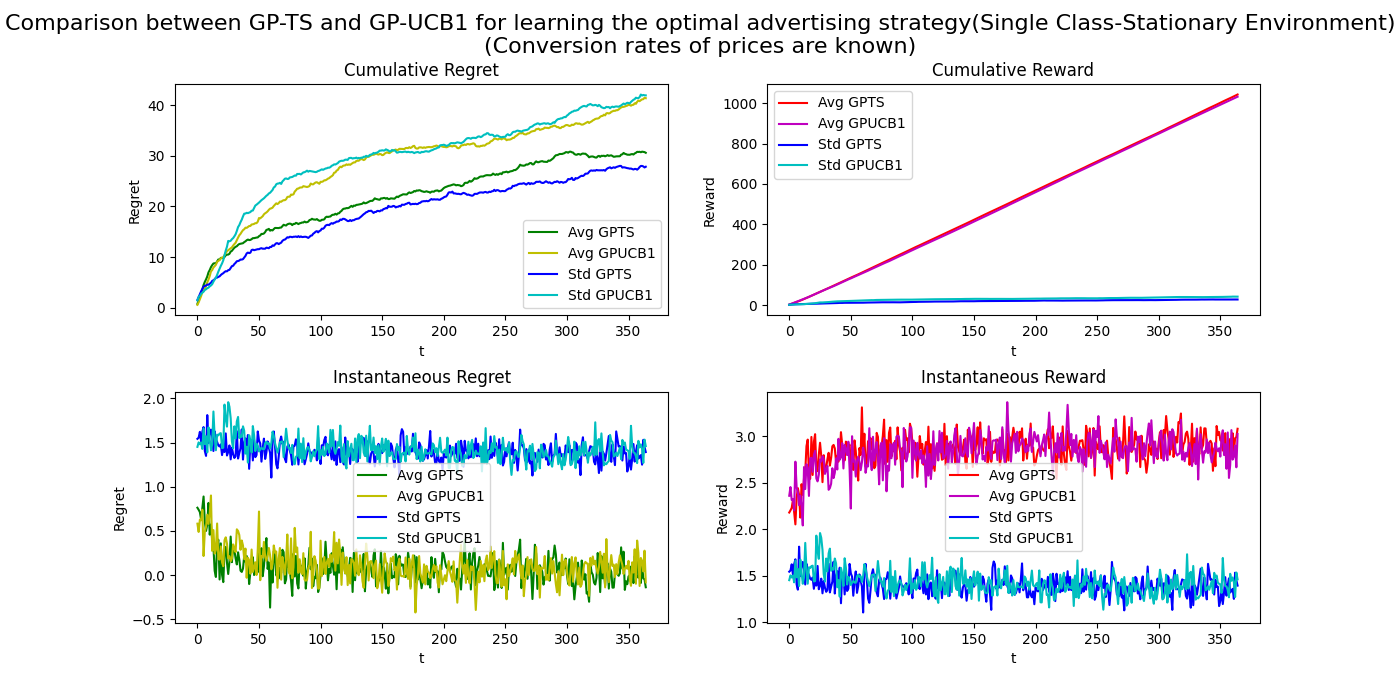
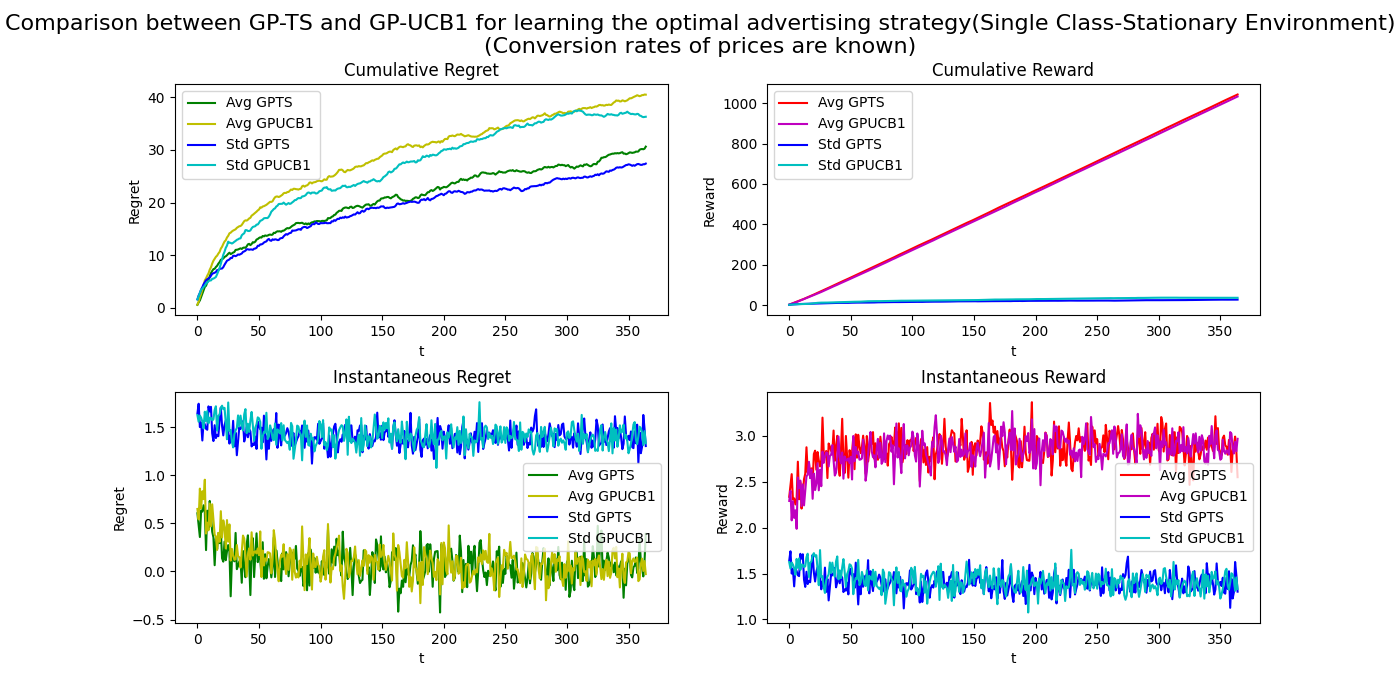
plot_update

diff --git a/Step1.py b/Step1.py
@@ -1,4 +1,4 @@
-from Classes.learners import Learner,TS_Learner,UCB1_Learner
+from Classes.learners import Learner,TS_Learner,UCB1_Learner,Greedy_Learner
 from Classes.enviroment import Environment
 from Classes.clairvoyant import clairvoyant
 
@@ -42,6 +42,7 @@ n_experiments = 1000
 
 ts_rewards_per_experiments = []
 ucb1_rewards_per_experiments = []
+greedy_rewards_per_experiments = []
 
 opt_index = int(clairvoyant(classes,bids,prices, margins,conversion_rate,env_array)[0][0])
 opt = normEarnings[opt_index][0]
@@ -53,6 +54,7 @@ for e in tqdm(range(n_experiments)):
   env = env_array[0]
   ts_learner = TS_Learner(n_arms = n_prices)
   ucb1_learner = UCB1_Learner(n_arms = n_prices)
+  greedy_learner = Greedy_Learner(n_arms = n_prices)
   for t in range(0, T):
     pulled_arm = ts_learner.pull_arm()
     reward = env.round(pulled_arm)
@@ -62,53 +64,68 @@ for e in tqdm(range(n_experiments)):
     reward = env.round(pulled_arm) 
     ucb1_learner.update(pulled_arm, reward)
 
+    pulled_arm = greedy_learner.pull_arm()
+    reward = env.round(pulled_arm)
+    greedy_learner.update(pulled_arm, reward)
+
   ts_rewards_per_experiments.append(ts_learner.collected_rewards)
   ucb1_rewards_per_experiments.append(ucb1_learner.collected_rewards)
+  greedy_rewards_per_experiments.append(greedy_learner.collected_rewards)
 
 ts_rewards_per_experiments = np.array(ts_rewards_per_experiments)
 ucb1_rewards_per_experiments = np.array(ucb1_rewards_per_experiments)
+greedy_rewards_per_experiments = np.array(greedy_rewards_per_experiments)
 
 opt_reward = opt * env_array[0].n(optimal_bid) - env_array[0].cc(optimal_bid)
 
 ts_rewards_per_experiments = ts_rewards_per_experiments * env_array[0].n(optimal_bid) - env_array[0].cc(optimal_bid)
 ucb1_rewards_per_experiments = ucb1_rewards_per_experiments * env_array[0].n(optimal_bid) - env_array[0].cc(optimal_bid)
+greedy_rewards_per_experiments = greedy_rewards_per_experiments * env_array[0].n(optimal_bid) - env_array[0].cc(optimal_bid)
 
 fig, axs = plt.subplots(2,2,figsize=(14,7))
 
 axs[0][0].set_xlabel("t")
 axs[0][0].set_ylabel("Regret")
 axs[0][0].plot(np.cumsum(np.mean(opt_reward - ts_rewards_per_experiments, axis = 0)), 'g')
-axs[0][0].plot(np.cumsum(np.mean(opt_reward - ucb1_rewards_per_experiments, axis = 0)), 'y') 
+axs[0][0].plot(np.cumsum(np.mean(opt_reward - ucb1_rewards_per_experiments, axis = 0)), 'y')
+axs[0][0].plot(np.cumsum(np.mean(opt_reward - greedy_rewards_per_experiments, axis = 0)), 'r')
 axs[0][0].plot(np.std(np.cumsum(opt_reward - ts_rewards_per_experiments, axis = 1), axis=0), 'b')   
 axs[0][0].plot(np.std(np.cumsum(opt_reward - ucb1_rewards_per_experiments, axis = 1), axis=0), 'c')
-axs[0][0].legend(["Avg TS", "Avg UCB1","Std TS","Std UCB1"])
+axs[0][0].plot(np.std(np.cumsum(opt_reward - greedy_rewards_per_experiments, axis = 1), axis=0), 'm')
+axs[0][0].legend(["Avg TS", "Avg UCB1", "Avg Greedy", "Std TS","Std UCB1","Std Greedy"])
 axs[0][0].set_title("Cumulative Regret")
 
 axs[0][1].set_xlabel("t")
 axs[0][1].set_ylabel("Reward")
-axs[0][1].plot(np.cumsum(np.mean(ts_rewards_per_experiments, axis = 0)), 'r')
-axs[0][1].plot(np.cumsum(np.mean(ucb1_rewards_per_experiments, axis = 0)), 'm')
+axs[0][1].plot(np.cumsum(np.mean(ts_rewards_per_experiments, axis = 0)), 'g')
+axs[0][1].plot(np.cumsum(np.mean(ucb1_rewards_per_experiments, axis = 0)), 'y')
+axs[0][1].plot(np.cumsum(np.mean(greedy_rewards_per_experiments, axis = 0)), 'r')
 axs[0][1].plot(np.std(np.cumsum(ts_rewards_per_experiments, axis = 1), axis = 0), 'b')
 axs[0][1].plot(np.std(np.cumsum(ucb1_rewards_per_experiments, axis = 1), axis = 0), 'c')
-axs[0][1].legend(["Avg TS", "Avg UCB1","Std TS","Std UCB1"])
+axs[0][1].plot(np.std(np.cumsum(greedy_rewards_per_experiments, axis = 1), axis = 0), 'm')
+axs[0][1].legend(["Avg TS", "Avg UCB1", "Avg Greedy", "Std TS","Std UCB1","Std Greedy"])
 axs[0][1].set_title("Cumulative Reward")
 
 axs[1][0].set_xlabel("t")
 axs[1][0].set_ylabel("Regret")
 axs[1][0].plot(np.mean(opt_reward - ts_rewards_per_experiments, axis = 0), 'g')
 axs[1][0].plot(np.mean(opt_reward - ucb1_rewards_per_experiments, axis = 0), 'y')
+axs[1][0].plot(np.mean(opt_reward - greedy_rewards_per_experiments, axis = 0), 'r')
 axs[1][0].plot(np.std(opt_reward - ts_rewards_per_experiments, axis = 0), 'b')   
 axs[1][0].plot(np.std(opt_reward - ucb1_rewards_per_experiments, axis = 0), 'c')
-axs[1][0].legend(["Avg TS", "Avg UCB1","Std TS","Std UCB1"])
+axs[1][0].plot(np.std(opt_reward - greedy_rewards_per_experiments, axis = 0), 'm')
+axs[1][0].legend(["Avg TS", "Avg UCB1", "Avg Greedy", "Std TS","Std UCB1","Std Greedy"])
 axs[1][0].set_title("Instantaneous Regret")
 
 axs[1][1].set_xlabel("t")
 axs[1][1].set_ylabel("Reward")
 axs[1][1].plot(np.mean(ts_rewards_per_experiments, axis = 0), 'g')
 axs[1][1].plot(np.mean(ucb1_rewards_per_experiments, axis = 0), 'y')
+axs[1][1].plot(np.mean(greedy_rewards_per_experiments, axis = 0), 'r')
 axs[1][1].plot(np.std(ts_rewards_per_experiments, axis = 0), 'b')
 axs[1][1].plot(np.std(ucb1_rewards_per_experiments, axis = 0), 'c')
-axs[1][1].legend(["Avg TS", "Avg UCB1","Std TS","Std UCB1"])
+axs[1][1].plot(np.std(greedy_rewards_per_experiments, axis = 0), 'm')
+axs[1][1].legend(["Avg TS", "Avg UCB1", "Avg Greedy", "Std TS","Std UCB1","Std Greedy"])
 axs[1][1].set_title("Instantaneous Reward")
 
 fig.suptitle('Comparison between TS and UCB1 for learning the optimal price (Single Class-Stationary Environment)\n(Optimal bid for advertising is known)', fontsize=16)

diff --git a/step3enver.py b/step3enver.py
@@ -54,30 +54,42 @@ noise_std = 1
 gpts_reward = []
 gpucb_reward = []
 
-for e in tqdm(range(n_experiments)):
+gpts_y_values = [[] for i in range(T)]
+gpts_sigmas = [[] for i in range(T)]
+
+gpucb_y_values = [[] for i in range(T)]
+gpucb_sigmas = [[] for i in range(T)]
+
+for e in range(n_experiments):
+    print(e)
     env = env_array[0]
     ts_learner = TS_Learner_combined(n_arms = n_prices)
     gpts_learner = GPTS_Learner_combined(n_arms = n_bids, arms = bids)
     ucb1_learner = UCB1_Learner_combined(n_arms = n_prices)
     gpucb_learner = GPUCB_Learner_combined(n_arms = n_bids, arms = bids)
 
-    for t in range(0, T):
+    for t in tqdm(range(T)):
       pulled_arm_price_idx, pulled_arm_price_val = ts_learner.pull_arm()
-      pulled_arm_bid = gpts_learner.pull_arm(pulled_arm_price_val)
+      pulled_arm_bid, y_value, sigmas = gpts_learner.pull_arm(pulled_arm_price_val)
+      gpts_y_values[t].append(y_value)
+      gpts_sigmas[t].append(sigmas)
       reward_pricing = env.round(pulled_arm_price_idx)
       reward_numc = env.draw_n(bids[pulled_arm_bid],noise_std)
       reward_costc = env.draw_cc(bids[pulled_arm_bid],noise_std)
-      reward_tot = reward_numc * reward_pricing  - reward_costc
+      reward_tot = reward_numc * reward_pricing - reward_costc
       ts_learner.update(pulled_arm_price_idx, reward_pricing)
       gpts_learner.update(pulled_arm_bid, reward = [reward_numc,reward_costc], reward_total = reward_tot)
 
       pulled_arm_price_idx, pulled_arm_price_val = ucb1_learner.pull_arm()
-      pulled_arm_bid = gpucb_learner.pull_arm(pulled_arm_price_val)
+      pulled_arm_bid, y_value, sigmas = gpucb_learner.pull_arm(pulled_arm_price_val)
+      gpucb_y_values[t].append(y_value)
+      gpucb_sigmas[t].append(sigmas)
       reward_pricing = env.round(pulled_arm_price_idx)
       reward_numc = env.draw_n(bids[pulled_arm_bid],noise_std)
       reward_costc = env.draw_cc(bids[pulled_arm_bid],noise_std)
-      reward_tot = reward_numc * reward_pricing  - reward_costc
+      reward_tot = reward_numc * reward_pricing - reward_costc
       ucb1_learner.update(pulled_arm_price_idx, reward_pricing)
+      gpucb_learner.update(pulled_arm_bid, reward = [reward_numc,reward_costc], reward_total = reward_tot)
 
     gpts_reward.append(gpts_learner.collected_rewards_total)
     gpucb_reward.append(gpucb_learner.collected_rewards_total)
@@ -86,6 +98,30 @@ gpts_reward = np.array(gpts_reward)
 gpucb_reward = np.array(gpucb_reward)
 
 opt_reward = opt * env_array[0].n(optimal_bid) - env_array[0].cc(optimal_bid)
+
+
+for i in range(T):
+  if i % 13 == 0:
+    gpts_y_values[i] = np.mean(gpts_y_values[i], axis = 0)
+    gpts_sigmas[i] = np.mean(gpts_sigmas[i], axis = 0)
+    gpucb_y_values[i] = np.mean(gpucb_y_values[i], axis = 0)
+    gpucb_sigmas[i] = np.mean(gpucb_sigmas[i], axis = 0)
+
+    x_pred = np.atleast_2d(bids).T
+    plt.figure(int(i/13)+1)
+    plt.plot(x_pred, opt*env_array[0].n(x_pred)-env_array[0].cc(x_pred), 'r', label=r'$Reward_Curve$')
+    plt.plot(x_pred, gpts_y_values[i], 'b', label=u'GPTS predicted curve')
+    plt.fill(np.concatenate([x_pred, x_pred[::-1]]),
+            np.concatenate([gpts_y_values[i] - 1.9600 * gpts_sigmas[i],
+                            (gpts_y_values[i] + 1.9600 * gpts_sigmas[i])[::-1]]),
+            alpha=.5, fc='c', ec='None', label='95% confidence interval')
+    plt.plot(x_pred, gpucb_y_values[i], 'g', label=u'GP-UCB predicted curve')
+    plt.fill(np.concatenate([x_pred, x_pred[::-1]]),
+            np.concatenate([gpucb_y_values[i] - 1.9600 * gpucb_sigmas[i],
+                            (gpucb_y_values[i] + 1.9600 * gpucb_sigmas[i])[::-1]]),
+            alpha=.5, fc='y', ec='None', label='95% confidence interval')
+    plt.legend()
+    plt.show()
 
 fig, axs = plt.subplots(2,2,figsize=(14,7))
 

diff --git a/Classes/learners.py b/Classes/learners.py
@@ -22,6 +22,22 @@ class Learner():
     self.reward_per_arm[pulled_arm].append(reward)
     self.collected_rewards = np.append(self.collected_rewards, reward)
 
+class Greedy_Learner(Learner):
+    def __init__(self, n_arms):
+        super().__init__(n_arms)
+        self.expected_rewards = np.zeros(n_arms)
+
+    def pull_arm(self):
+        if self.t < self.n_arms:
+            return self.t
+        idxs = np.argwhere(self.expected_rewards == self.expected_rewards.max()).reshape(-1)
+        pulled_arm = np.random.choice(idxs)
+        return pulled_arm
+    
+    def update(self, pulled_arm, reward):
+        self.t += 1
+        self.update_observations(pulled_arm, reward)
+        self.expected_rewards[pulled_arm] = (self.expected_rewards[pulled_arm] * (self.t -1) + reward) / self.t
 
 class TS_Learner(Learner):
   def __init__(self, n_arms):
@@ -139,7 +155,7 @@ class GPTS_Learner(Learner):
 
   def pull_arm(self):
     sampled_values = np.random.normal(self.means, self.sigmas)
-    return np.argmax(sampled_values)
+    return np.argmax(sampled_values), self.means, self.sigmas
 
 class GPTS_Learner_combined(GPTS_Learner):
   def __init__(self, n_arms, arms):
@@ -180,10 +196,12 @@ class GPTS_Learner_combined(GPTS_Learner):
     self.update_model()
   
   def pull_arm(self, predicted_best_conversion_rate):
+    pred_y = self.means_numc * predicted_best_conversion_rate - self.means_costc
+    pred_sigma = np.sqrt(self.sigmas_numc**2 * predicted_best_conversion_rate**2 + self.sigmas_costc**2)
     sampled_numc = np.random.normal(self.means_numc, self.sigmas_numc)
     sampled_costc = np.random.normal(self.means_costc, self.sigmas_costc)
     sampled_values = sampled_numc * predicted_best_conversion_rate - sampled_costc
-    return np.argmax(sampled_values)
+    return np.argmax(sampled_values), pred_y, pred_sigma
 
 
 class GPUCB_Learner(Learner): 
@@ -220,7 +238,7 @@ class GPUCB_Learner(Learner):
 
   def pull_arm(self):
     upper_conf = self.means + 1.96 * self.sigmas
-    return np.random.choice(np.where(upper_conf == upper_conf.max())[0])
+    return np.random.choice(np.where(upper_conf == upper_conf.max())[0]), self.means, self.sigmas
 
 
 class GPUCB_Learner_combined(GPUCB_Learner):
@@ -262,10 +280,12 @@ class GPUCB_Learner_combined(GPUCB_Learner):
     self.update_model()
 
   def pull_arm(self, predicted_best_conversion_rate):
+    pred_y = self.means_numc * predicted_best_conversion_rate - self.means_costc
+    pred_sigma = np.sqrt(self.sigmas_numc**2 * predicted_best_conversion_rate**2 + self.sigmas_costc**2)
     upper_conf_numc = self.means_numc + 1.96 * self.sigmas_numc
     lower_conf_costc = self.means_costc - 1.96 * self.sigmas_costc
     upper_conf = upper_conf_numc * predicted_best_conversion_rate - lower_conf_costc
-    return np.random.choice(np.where(upper_conf == upper_conf.max())[0])
+    return np.random.choice(np.where(upper_conf == upper_conf.max())[0]), pred_y, pred_sigma
 
 
 class CUSUM:

diff --git a/Step2.py b/Step2.py
@@ -38,7 +38,6 @@ env_array = []
 for c in classes:
   env_array.append(Environment(n_prices, normEarnings[:,c], c))
 
-
 #EXPERIMENT BEGIN
 T = 365
 
@@ -58,6 +57,12 @@ opt = normEarnings[opt_index][0] #0 bc only first Class
 optimal_bid_index = clairvoyant(classes,bids,prices, margins,conversion_rate,env_array)[1][0]
 optimal_bid = bids[int(optimal_bid_index)]
 
+gpts_y_values = [[] for i in range(T)]
+gpts_sigmas = [[] for i in range(T)]
+
+gpucb_y_values = [[] for i in range(T)]
+gpucb_sigmas = [[] for i in range(T)]
+
 for e in range(n_experiments):
   print(e)
   env = env_array[0]
@@ -65,12 +70,15 @@ for e in range(n_experiments):
   gpucb_learner = GPUCB_Learner(n_arms = n_bids, arms = bids)
 
   for t in tqdm(range(T)):
-    pulled_arm = gpts_learner.pull_arm()
+    pulled_arm, y_value, sigmas = gpts_learner.pull_arm()
+    gpts_y_values[t].append(y_value)
+    gpts_sigmas[t].append(sigmas)
     reward = env.draw_n(bids[pulled_arm],noise_std) * opt - env.draw_cc(bids[pulled_arm],noise_std) # 1 is std
     gpts_learner.update(pulled_arm, reward)
 
-
-    pulled_arm = gpucb_learner.pull_arm()
+    pulled_arm, y_value, sigmas = gpucb_learner.pull_arm()
+    gpucb_y_values[t].append(y_value)
+    gpucb_sigmas[t].append(sigmas)
     reward = env.draw_n(bids[pulled_arm],noise_std) * opt - env.draw_cc(bids[pulled_arm],noise_std)# 1 is std
     gpucb_learner.update(pulled_arm, reward)
 
@@ -81,6 +89,30 @@ gpts_reward = np.array(gpts_reward)
 gpucb_reward = np.array(gpucb_reward)
 
 opt_reward = opt * env_array[0].n(optimal_bid) - env_array[0].cc(optimal_bid)
+
+for i in range(T):
+  if i % 13 == 0:
+    gpts_y_values[i] = np.mean(gpts_y_values[i], axis = 0)
+    gpts_sigmas[i] = np.mean(gpts_sigmas[i], axis = 0)
+    gpucb_y_values[i] = np.mean(gpucb_y_values[i], axis = 0)
+    gpucb_sigmas[i] = np.mean(gpucb_sigmas[i], axis = 0)
+
+    x_pred = np.atleast_2d(bids).T
+    plt.figure(int(i/13)+1)
+    plt.plot(x_pred, opt*env_array[0].n(x_pred)-env_array[0].cc(x_pred), 'r', label=r'$Reward_Curve$')
+    plt.plot(x_pred, gpts_y_values[i], 'b', label=u'GPTS predicted curve')
+    plt.fill(np.concatenate([x_pred, x_pred[::-1]]),
+            np.concatenate([gpts_y_values[i] - 1.9600 * gpts_sigmas[i],
+                            (gpts_y_values[i] + 1.9600 * gpts_sigmas[i])[::-1]]),
+            alpha=.5, fc='c', ec='None', label='95% confidence interval')
+    plt.plot(x_pred, gpucb_y_values[i], 'g', label=u'GP-UCB predicted curve')
+    plt.fill(np.concatenate([x_pred, x_pred[::-1]]),
+            np.concatenate([gpucb_y_values[i] - 1.9600 * gpucb_sigmas[i],
+                            (gpucb_y_values[i] + 1.9600 * gpucb_sigmas[i])[::-1]]),
+            alpha=.5, fc='y', ec='None', label='95% confidence interval')
+    plt.legend()
+    plt.show()
+  
 
 fig, axs = plt.subplots(2,2, figsize = (14,7))
 

diff --git a/Step5.py b/Step5.py
@@ -71,12 +71,11 @@ for c in classes:
 
 #EXPERIMENT BEGIN
 
-
 n_experiments = 1000
 
-M = 100 #number of steps to obtain reference point in change detection (for CUSUM)
-eps = 0.1 #epsilon for deviation from reference point in change detection (for CUSUM)
-h = np.log(T)*2 #threshold for change detection (for CUSUM)
+M = 50 #number of steps to obtain reference point in change detection (for CUSUM)
+eps = 0.02 #epsilon for deviation from reference point in change detection (for CUSUM)
+h = np.log(T)**2 #threshold for change detection (for CUSUM)
 
 ucb1_rewards_per_experiments = []
 swucb_rewards_per_experiments = []
@@ -147,6 +146,7 @@ cusum_rewards_per_experiments[2*int(T/3):] = cusum_rewards_per_experiments[2*int
 ucb1_rewards_per_experiments[:int(T/3)] = ucb1_rewards_per_experiments[:int(T/3)] * env_array[0].n(optimal_bid_phase1) - env_array[0].cc(optimal_bid_phase1)
 ucb1_rewards_per_experiments[int(T/3):2*int(T/3)] = ucb1_rewards_per_experiments[int(T/3):2*int(T/3)] * env_array[0].n(optimal_bid_phase2) - env_array[0].cc(optimal_bid_phase2)
 ucb1_rewards_per_experiments[2*int(T/3):] = ucb1_rewards_per_experiments[2*int(T/3):] * env_array[0].n(optimal_bid_phase3) - env_array[0].cc(optimal_bid_phase3)
+
 
 fig, axs = plt.subplots(2,2,figsize=(14,7))
 

diff --git a/Step5_sensanalysis.py b/Step5_sensanalysis.py
@@ -74,9 +74,9 @@ for c in classes:
 
 n_experiments = 1000
 window_sizes = [int(4*(T**0.5)),int(6*(T**0.5)),int(8*(T**0.5))]
-M_values = [50, 100, 200]
+M_values = [25, 50, 100]
 eps_values = [0.02, 0.1, 0.5]
-h_values = [np.log(T), np.log(T) * 2, np.log(T) * 4]
+h_values = [np.log(T), np.log(T) ** 2, np.log(T) ** 4]
 
 opt_index_phase1 = int(clairvoyant(classes,bids,prices, margins,conversion_rate_phase1,env_array)[0][0])
 opt_phase1 = normEarnings_phase1[opt_index_phase1][0]
